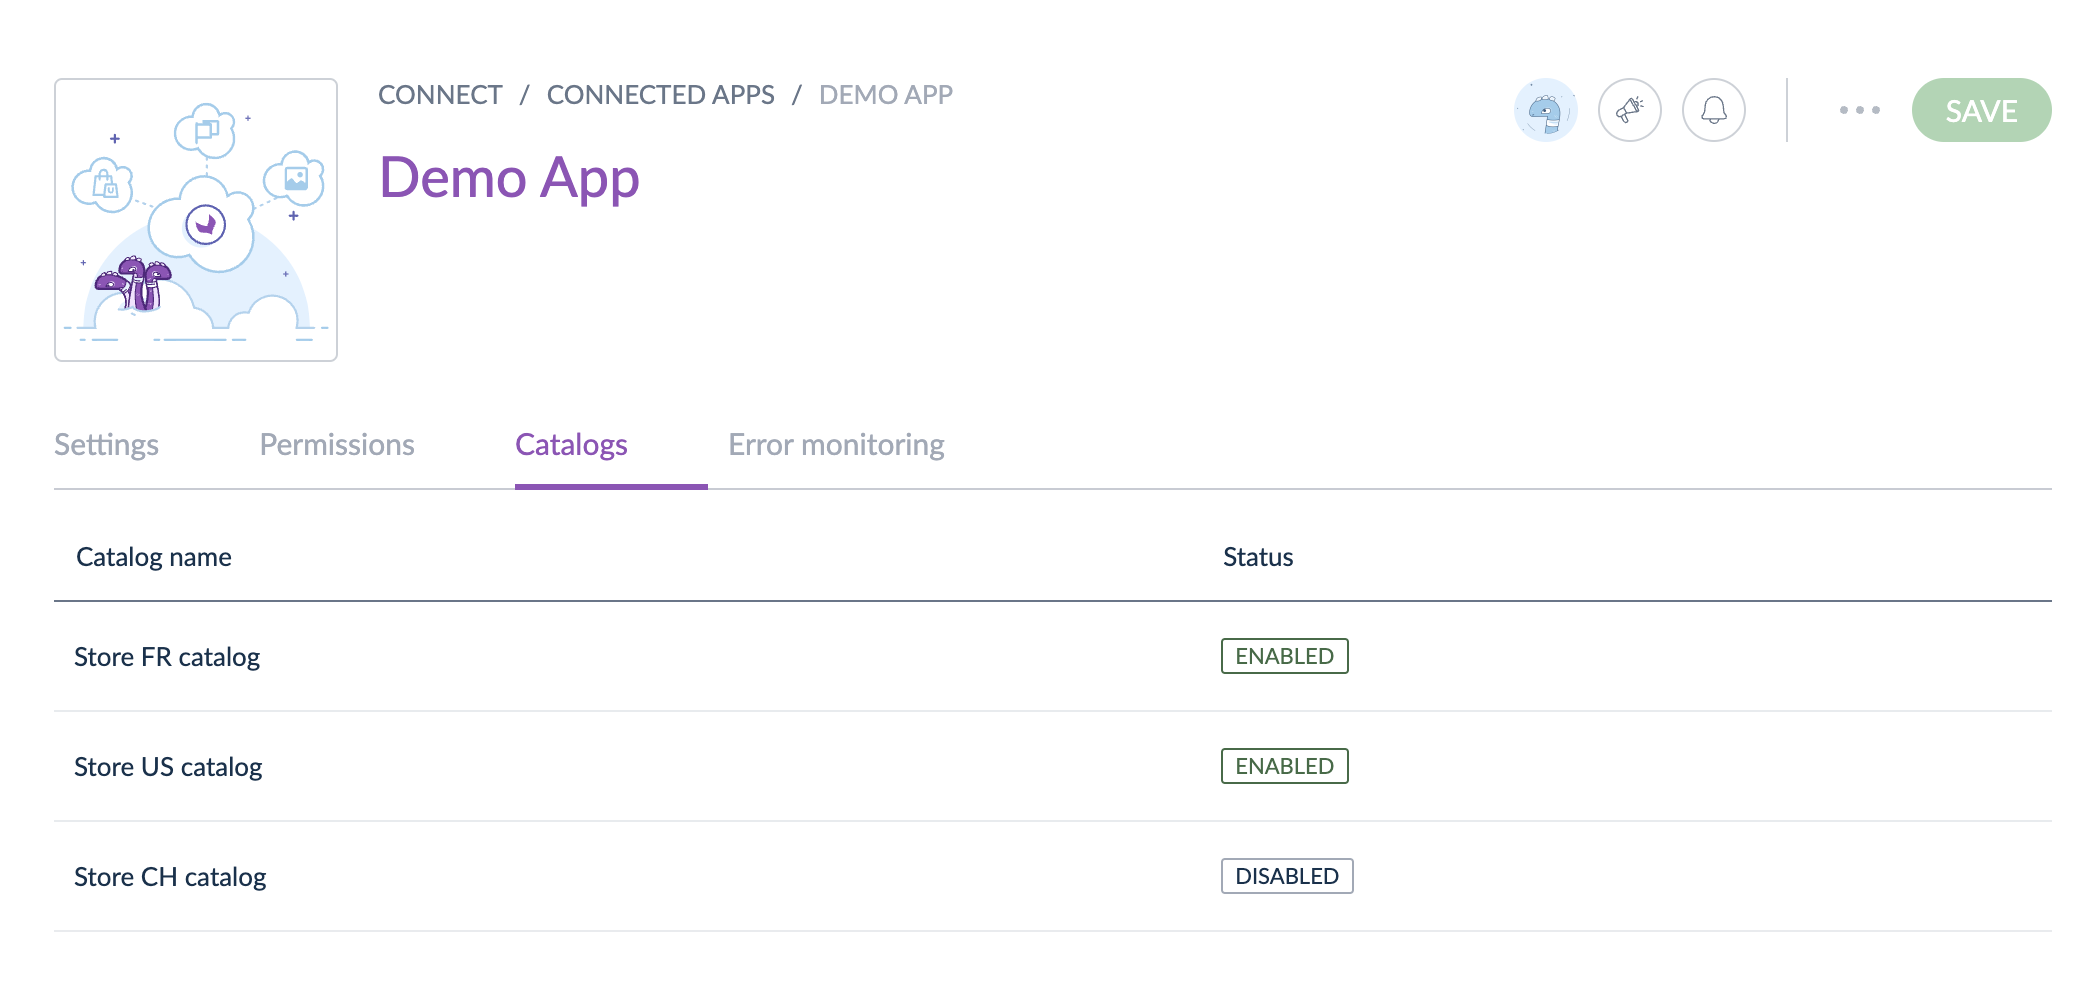
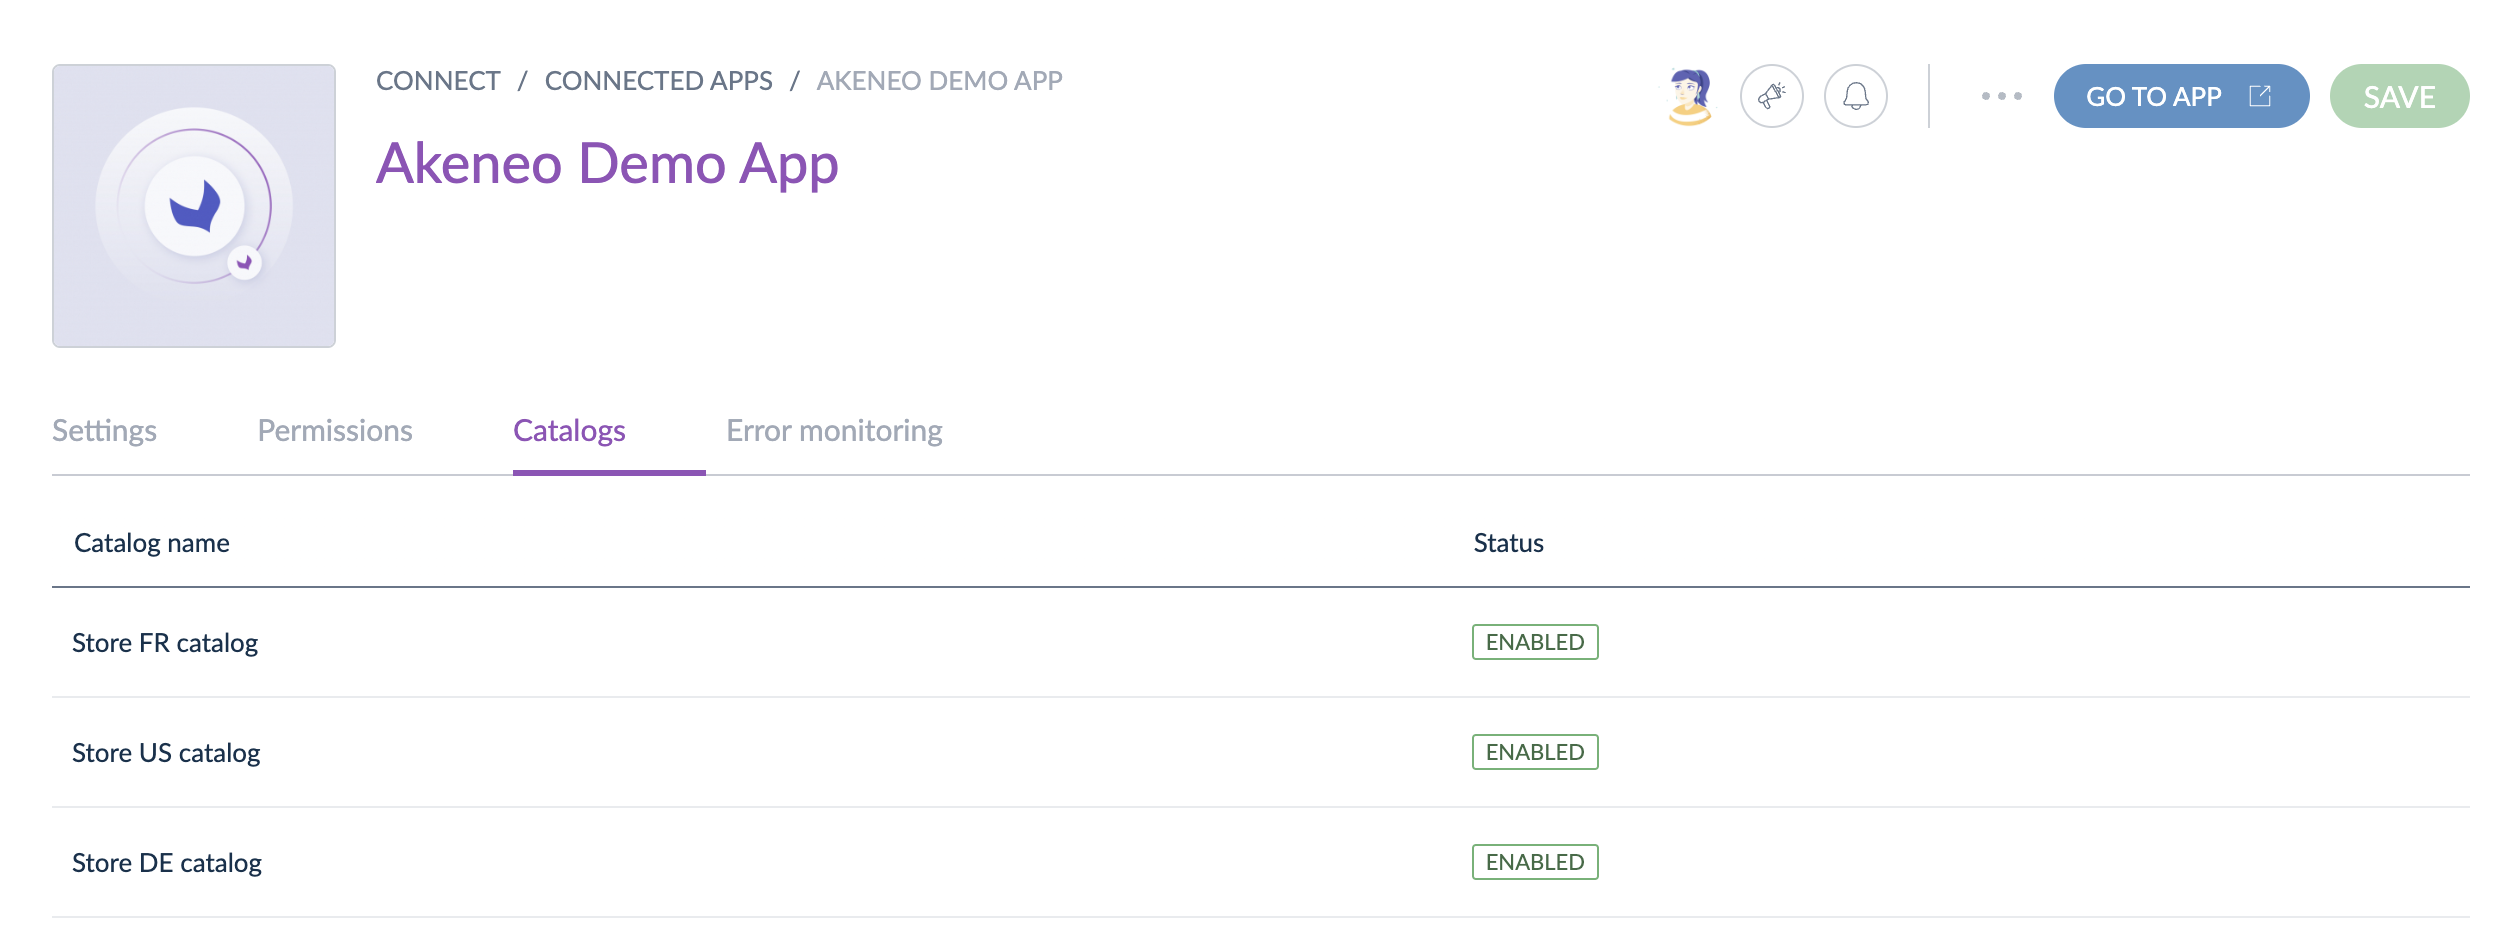
Use the catalog product mapping + screenshot update

diff --git a/content/apps/catalogs.md b/content/apps/catalogs.md
@@ -87,11 +87,10 @@ When your app creates a catalog, the API returns its UUID. You will use this cat
 To help your users know how to configure a catalog, give it the most descriptive name possible.
 :::
 
-By default, new catalogs are **disabled**. 
+**By default, new catalogs are disabled and only users can enable a catalog.** 
 It means that until a user hasn't enabled it, you won't be able to retrieve products for this catalog. 
 
-Please note that only users can enable a catalog. 
-![Catalog settings](../img/apps/catalogs-settings.png)
+<img class="img-responsive in-article" alt="Enable catalog field" src="../img/apps/app-catalog-enable-button.png" style="max-width: 600px;">
 
 To help your users, you can redirect them directly to the catalog configuration interface on their Akeneo PXM Studio using the following URL structure:
 
@@ -104,12 +103,64 @@ At any moment, you can verify if a catalog is enabled by calling the [get catalo
 
 ### Step 3: Get products using catalogs
 
-::: warning
-The endpoint for retrieving the list of product UUIDs will be available soon!
-:::
-
 Once you have an enabled catalog, you can paginate the corresponding product UUIDs using this [endpoint](/api-reference.html#Appcatalogproduct).
 
 ### Next steps
+- Learn [how to use the product mapping feature](/getting-started/synchronize-pim-products-6x/welcome.html)
 - Learn [how to synchronize Akeneo data](/getting-started/synchronize-pim-products-6x/welcome.html)
+- Explore the [REST API reference](/api-reference-index.html) 
+
+
+## Use the catalog product mapping
+
+To further help you in your app development, you can use product mapping to push your data structure to Akeneo PIM and get pre-formatted product data. 
+
+### What you'll learn
+
+After completing this tutorial, you'll be able to push your JSON mapping schema to the PIM and get product data in the format you expect. 
+
+### Requirements
+
+- You have your [App developer starter kit](/apps/overview.html#app-developer-starter-kit)
+- Your app already manages the authorization process 
+- You followed the [Getting started with catalogs](#getting-started-with-catalogs) steps
+
+### Step 1: Define your JSON schema
+
+The first step to using the mapping feature is determining the JSON schema you need to push to the Akeneo PIM to get mapped product data. 
+
+::: info 
+**JSON Schema is a declarative language that allows to annotate and validate JSON documents.** It describes an existing data format, provides clear human- and machine-readable documentation, and allows to validate data which is useful for ensuring the quality of client-submitted data.
+:::
+
+To help you define your schema, we advise you to use the following JSON Schema validator: [https://www.jsonschemavalidator.net/](https://www.jsonschemavalidator.net/) before pushing it to the Akeneo PIM. 
+
+In the left panel, you can copy/paste our [product mapping meta-schema](/mapping/product/0.0.2/schema) and fill the right panel with your JSON schema. The validator highlights errors if there are some or displays a success message if your schema matches all our meta-schema constraints. 
+
+::: warning
+**You can only ask for string properties, and map PIM text attributes with the alpha version**.  
+In the coming months, we will cover more property types and, therefore, more PIM attribute types.  
+:::
+
+### Step 2: Push your product mapping schema
+
+Once your product mapping schema is ready, use the endpoint to [create or update the product mapping schema related to a catalog](/api-reference.html#put_app_catalogs_mapping_schema_product) to push your schema to the PIM and access the related configuration screen inside the PIM. 
+
+### Step 3:  Get mapped product data 
+
+Finally, get product data using the endpoint to [get the list of mapped products related to a catalog](/api-reference.html#get_app_catalog_mapped_products).
+
+### Step 4: Test your implementation
+
+To do so, please:
+1. Log into your [developer sandbox](/apps/overview.html#app-developer-starter-kit)
+2. Click `Connect`, `Connected apps`, `Catalogs`, then the name of your catalog
+3. Go to the `Product mapping` tab 
+4. Fill in the mapping and enable the catalog using the `Enable catalog` button in the catalog header
+
+We use your product mapping schema to display a screen where your users will configure their catalog. Here is how we use the JSON schema data:
+
+<!-- TODO screenshot with helpers -->
+
+### Next steps
 - Explore the [REST API reference](/api-reference-index.html) 
